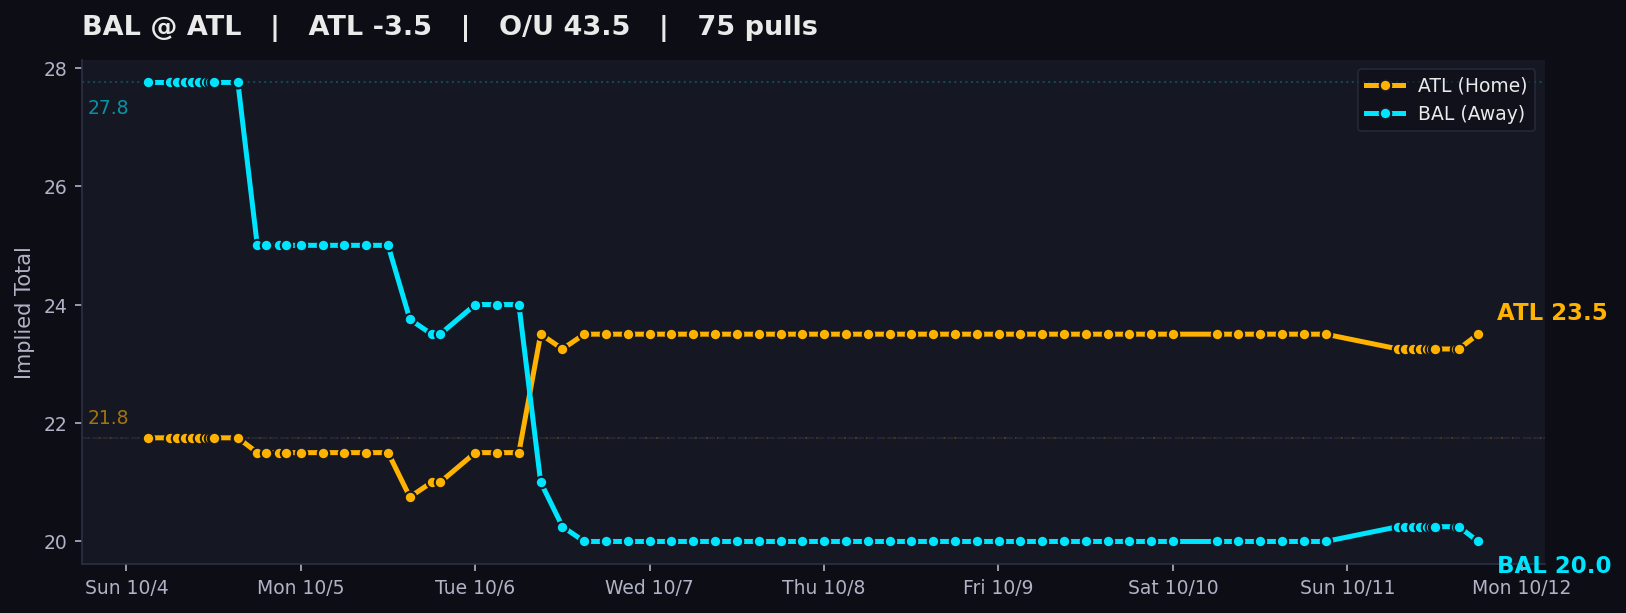
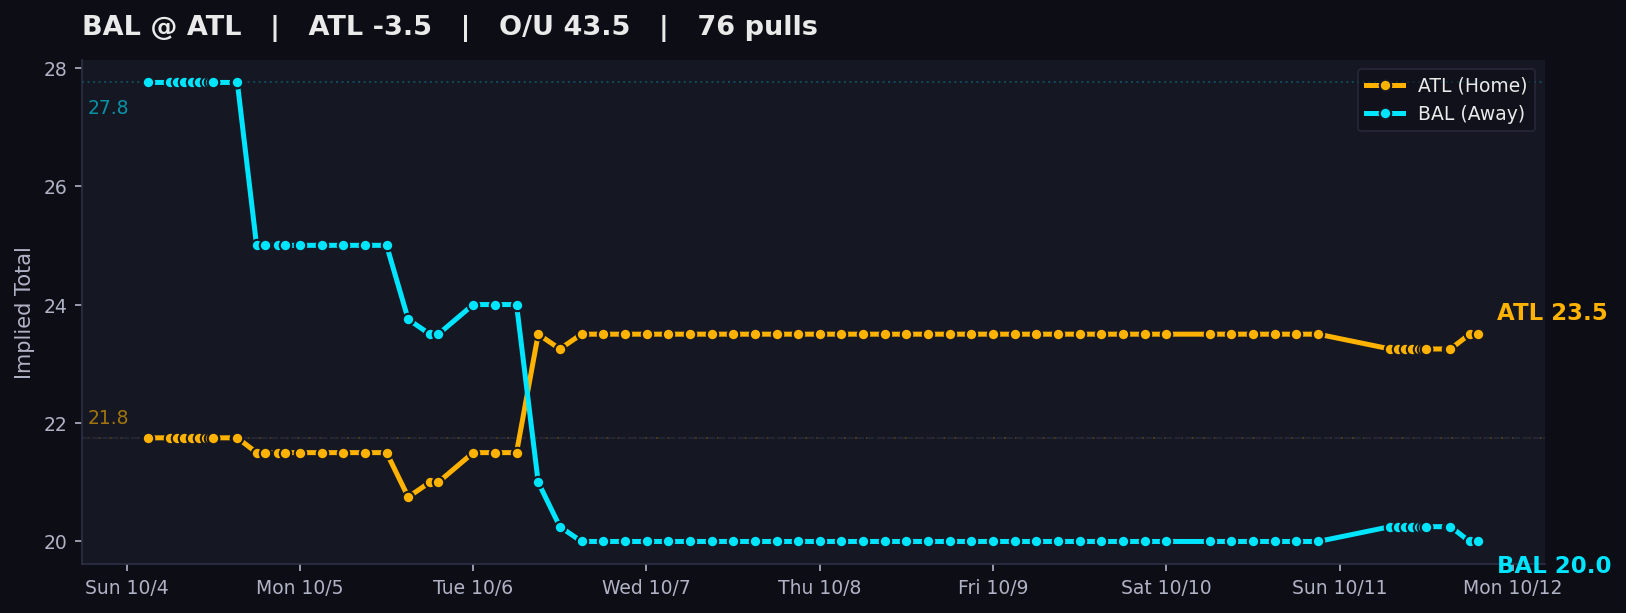
auto: local tracker sync

diff --git a/charts/index.html b/charts/index.html
@@ -311,7 +311,7 @@
     </div>
     <p class='sub'>
       DraftKings main lines &middot; Pinnacle cross-check &middot; Updated by the local Mac tracker<br>
-      Page rendered Sun Oct 11, 2026 6:00 PM CDT &middot; 1075 valid chart dots &middot; 1174 total pull attempts
+      Page rendered Sun Oct 11, 2026 7:10 PM CDT &middot; 1077 valid chart dots &middot; 1176 total pull attempts
       <span class='legend-box'>
         <span class='dot-teal'>● Away implied total</span>
         <span class='dot-amber'>● Home implied total</span>
@@ -324,9 +324,9 @@
     </details>
   </header>
 
-  <div id='feed-banner' class='alert-banner healthy' data-banner-kind='healthy' data-feed-ts='2026-10-11T23:00:04.798140+00:00' data-feed-ts-label='Sun Oct 11, 6:00 PM CDT'>
+  <div id='feed-banner' class='alert-banner healthy' data-banner-kind='healthy' data-feed-ts='2026-10-12T00:10:00.872640+00:00' data-feed-ts-label='Sun Oct 11, 7:10 PM CDT'>
             <span class='status-dot'></span>
-            <b>Feed Healthy:</b> All 2 open markets updated. 13 games have started and is showing its final verified pregame line. Board age based on oldest open market: <span id='feed-time'>Sun Oct 11, 6:00 PM CDT</span> (<span id='feed-age-dynamic'>just now</span>).
+            <b>Feed Healthy:</b> All 2 open markets updated. 13 games have started and is showing its final verified pregame line. Board age based on oldest open market: <span id='feed-time'>Sun Oct 11, 7:10 PM CDT</span> (<span id='feed-age-dynamic'>just now</span>).
         </div>
 
   <nav class='filter-bar' aria-label='Filter games by slate'>
@@ -396,7 +396,7 @@
                 <div><span>Last valid pull</span><strong>Thu 6:00 PM CT</strong></div>
                 <div><span>Chart dots</span><strong>69</strong></div>
             </div>
-                    <img class='expanded-chart' src='TB_DAL.png?v=1791759609' alt='TB at DAL line movement chart'>
+                    <img class='expanded-chart' src='TB_DAL.png?v=1791763814' alt='TB at DAL line movement chart'>
                     <p class='movement-note'>Total 47.5 → 49.5</p>
                 </div>
             </td>
@@ -437,7 +437,7 @@
                 <div><span>Last valid pull</span><strong>8:00 AM CT</strong></div>
                 <div><span>Chart dots</span><strong>71</strong></div>
             </div>
-                    <img class='expanded-chart' src='PHI_JAX.png?v=1791759609' alt='PHI at JAX line movement chart'>
+                    <img class='expanded-chart' src='PHI_JAX.png?v=1791763814' alt='PHI at JAX line movement chart'>
                     <p class='movement-note'>Spread JAX -3.0 → -7.5; Total 44.5 → 41.5</p>
                 </div>
             </td>
@@ -478,7 +478,7 @@
                 <div><span>Last valid pull</span><strong>12:00 PM CT</strong></div>
                 <div><span>Chart dots</span><strong>75</strong></div>
             </div>
-                    <img class='expanded-chart' src='CHI_GB.png?v=1791759609' alt='CHI at GB line movement chart'>
+                    <img class='expanded-chart' src='CHI_GB.png?v=1791763814' alt='CHI at GB line movement chart'>
                     <p class='movement-note'>Spread CHI +2.5 → -1.5; Total 45.5 → 46.5</p>
                 </div>
             </td>
@@ -513,7 +513,7 @@
                 <div><span>Last valid pull</span><strong>12:00 PM CT</strong></div>
                 <div><span>Chart dots</span><strong>64</strong></div>
             </div>
-                    <img class='expanded-chart' src='IND_PIT.png?v=1791759609' alt='IND at PIT line movement chart'>
+                    <img class='expanded-chart' src='IND_PIT.png?v=1791763814' alt='IND at PIT line movement chart'>
                     <p class='movement-note'>Spread PIT -2.5 → -3.0; Total 44.5 → 41.5</p>
                 </div>
             </td>
@@ -548,7 +548,7 @@
                 <div><span>Last valid pull</span><strong>12:00 PM CT</strong></div>
                 <div><span>Chart dots</span><strong>73</strong></div>
             </div>
-                    <img class='expanded-chart' src='MIN_NO.png?v=1791759609' alt='MIN at NO line movement chart'>
+                    <img class='expanded-chart' src='MIN_NO.png?v=1791763814' alt='MIN at NO line movement chart'>
                     <p class='movement-note'>Total 44.5 → 41.5</p>
                 </div>
             </td>
@@ -583,7 +583,7 @@
                 <div><span>Last valid pull</span><strong>12:00 PM CT</strong></div>
                 <div><span>Chart dots</span><strong>68</strong></div>
             </div>
-                    <img class='expanded-chart' src='NYG_WAS.png?v=1791759609' alt='NYG at WAS line movement chart'>
+                    <img class='expanded-chart' src='NYG_WAS.png?v=1791763814' alt='NYG at WAS line movement chart'>
                     <p class='movement-note'>Spread WAS -2.5 → -3.5; Total 43.5 → 41.5</p>
                 </div>
             </td>
@@ -618,7 +618,7 @@
                 <div><span>Last valid pull</span><strong>12:00 PM CT</strong></div>
                 <div><span>Chart dots</span><strong>75</strong></div>
             </div>
-                    <img class='expanded-chart' src='CIN_MIA.png?v=1791759609' alt='CIN at MIA line movement chart'>
+                    <img class='expanded-chart' src='CIN_MIA.png?v=1791763814' alt='CIN at MIA line movement chart'>
                     <p class='movement-note'>Spread CIN -8.5 → -7.0; Total 46.5 → 44.5</p>
                 </div>
             </td>
@@ -653,7 +653,7 @@
                 <div><span>Last valid pull</span><strong>12:00 PM CT</strong></div>
                 <div><span>Chart dots</span><strong>75</strong></div>
             </div>
-                    <img class='expanded-chart' src='HOU_TEN.png?v=1791759609' alt='HOU at TEN line movement chart'>
+                    <img class='expanded-chart' src='HOU_TEN.png?v=1791763814' alt='HOU at TEN line movement chart'>
                     <p class='movement-note'>Total 39.5 → 37.5</p>
                 </div>
             </td>
@@ -688,7 +688,7 @@
                 <div><span>Last valid pull</span><strong>12:00 PM CT</strong></div>
                 <div><span>Chart dots</span><strong>64</strong></div>
             </div>
-                    <img class='expanded-chart' src='CLE_NYJ.png?v=1791759609' alt='CLE at NYJ line movement chart'>
+                    <img class='expanded-chart' src='CLE_NYJ.png?v=1791763814' alt='CLE at NYJ line movement chart'>
                     <p class='movement-note'>Spread NYJ -1.5 → -2.5; Total 39.5 → 38.5</p>
                 </div>
             </td>
@@ -723,7 +723,7 @@
                 <div><span>Last valid pull</span><strong>12:00 PM CT</strong></div>
                 <div><span>Chart dots</span><strong>75</strong></div>
             </div>
-                    <img class='expanded-chart' src='LVR_NE.png?v=1791759609' alt='LVR at NE line movement chart'>
+                    <img class='expanded-chart' src='LVR_NE.png?v=1791763814' alt='LVR at NE line movement chart'>
                     <p class='movement-note'>Total 44.5 → 45.5</p>
                 </div>
             </td>
@@ -764,7 +764,7 @@
                 <div><span>Last valid pull</span><strong>3:20 PM CT</strong></div>
                 <div><span>Chart dots</span><strong>77</strong></div>
             </div>
-                    <img class='expanded-chart' src='DET_ARI.png?v=1791759609' alt='DET at ARI line movement chart'>
+                    <img class='expanded-chart' src='DET_ARI.png?v=1791763814' alt='DET at ARI line movement chart'>
                     <p class='movement-note'>Total 52.5 → 55.5</p>
                 </div>
             </td>
@@ -799,7 +799,7 @@
                 <div><span>Last valid pull</span><strong>3:20 PM CT</strong></div>
                 <div><span>Chart dots</span><strong>79</strong></div>
             </div>
-                    <img class='expanded-chart' src='SF_SEA.png?v=1791759609' alt='SF at SEA line movement chart'>
+                    <img class='expanded-chart' src='SF_SEA.png?v=1791763814' alt='SF at SEA line movement chart'>
                     <p class='movement-note'>Total 47.5 → 45.5</p>
                 </div>
             </td>
@@ -834,7 +834,7 @@
                 <div><span>Last valid pull</span><strong>3:00 PM CT</strong></div>
                 <div><span>Chart dots</span><strong>73</strong></div>
             </div>
-                    <img class='expanded-chart' src='DEN_LAC.png?v=1791759609' alt='DEN at LAC line movement chart'>
+                    <img class='expanded-chart' src='DEN_LAC.png?v=1791763814' alt='DEN at LAC line movement chart'>
                     <p class='movement-note'>Spread DEN -2.5 → -3.5; Total 43.5 → 42.5</p>
                 </div>
             </td>
@@ -855,8 +855,8 @@
             <td class='it-away'>BAL 20.0</td>
             <td class='it-home'>ATL 23.5</td>
             <td class='reason' title='Spread ATL +6.0 → -3.5; Total 49.5 → 43.5'>Spread ATL +6.0 → -3.5; Total 49.5 → 43.5</td>
-            <td style='text-align:center;'><span class='pill-fresh'>6:00 PM CT</span></td>
-            <td class='snaps'>75</td>
+            <td style='text-align:center;'><span class='pill-fresh'>7:10 PM CT</span></td>
+            <td class='snaps'>76</td>
         </tr>
         <tr id='desktop-panel-BAL_ATL' class='chart-detail-row' data-slate='SNF' data-game-panel='BAL_ATL' hidden>
             <td colspan='12'>
@@ -872,10 +872,10 @@
                 <div><span>Current total</span><strong>43.5</strong></div>
                 <div><span>Away implied</span><strong class='it-away'>BAL 20.0</strong></div>
                 <div><span>Home implied</span><strong class='it-home'>ATL 23.5</strong></div>
-                <div><span>Last valid pull</span><strong>6:00 PM CT</strong></div>
-                <div><span>Chart dots</span><strong>75</strong></div>
+                <div><span>Last valid pull</span><strong>7:10 PM CT</strong></div>
+                <div><span>Chart dots</span><strong>76</strong></div>
             </div>
-                    <img class='expanded-chart' src='BAL_ATL.png?v=1791759609' alt='BAL at ATL line movement chart'>
+                    <img class='expanded-chart' src='BAL_ATL.png?v=1791763814' alt='BAL at ATL line movement chart'>
                     <p class='movement-note'>Spread ATL +6.0 → -3.5; Total 49.5 → 43.5</p>
                 </div>
             </td>
@@ -896,8 +896,8 @@
             <td class='it-away'>BUF 25.5</td>
             <td class='it-home'>LAR 29.0</td>
             <td class='reason' title='Spread LAR -2.5 → -3.5; Total 53.5 → 54.5'>Spread LAR -2.5 → -3.5; Total 53.5 → 54.5</td>
-            <td style='text-align:center;'><span class='pill-fresh'>6:00 PM CT</span></td>
-            <td class='snaps'>62</td>
+            <td style='text-align:center;'><span class='pill-fresh'>7:10 PM CT</span></td>
+            <td class='snaps'>63</td>
         </tr>
         <tr id='desktop-panel-BUF_LAR' class='chart-detail-row' data-slate='MNF' data-game-panel='BUF_LAR' hidden>
             <td colspan='12'>
@@ -913,10 +913,10 @@
                 <div><span>Current total</span><strong>54.5</strong></div>
                 <div><span>Away implied</span><strong class='it-away'>BUF 25.5</strong></div>
                 <div><span>Home implied</span><strong class='it-home'>LAR 29.0</strong></div>
-                <div><span>Last valid pull</span><strong>6:00 PM CT</strong></div>
-                <div><span>Chart dots</span><strong>62</strong></div>
+                <div><span>Last valid pull</span><strong>7:10 PM CT</strong></div>
+                <div><span>Chart dots</span><strong>63</strong></div>
             </div>
-                    <img class='expanded-chart' src='BUF_LAR.png?v=1791759609' alt='BUF at LAR line movement chart'>
+                    <img class='expanded-chart' src='BUF_LAR.png?v=1791763814' alt='BUF at LAR line movement chart'>
                     <p class='movement-note'>Spread LAR -2.5 → -3.5; Total 53.5 → 54.5</p>
                 </div>
             </td>
@@ -951,7 +951,7 @@
                 <div><span>Last valid pull</span><strong>Thu 6:00 PM CT</strong></div>
                 <div><span>Chart dots</span><strong>69</strong></div>
             </div>
-                <img class='expanded-chart' src='TB_DAL.png?v=1791759609' alt='TB at DAL line movement chart'>
+                <img class='expanded-chart' src='TB_DAL.png?v=1791763814' alt='TB at DAL line movement chart'>
                 <p class='pull-note'><span class='pull-dot'></span> Every dot is a valid completed pull · 69 chart dots</p>
             </div>
         </article><article class='mobile-game-card closed-game' data-slate='OTHER_PRIMETIME' data-game='PHI_JAX'>
@@ -978,7 +978,7 @@
                 <div><span>Last valid pull</span><strong>8:00 AM CT</strong></div>
                 <div><span>Chart dots</span><strong>71</strong></div>
             </div>
-                <img class='expanded-chart' src='PHI_JAX.png?v=1791759609' alt='PHI at JAX line movement chart'>
+                <img class='expanded-chart' src='PHI_JAX.png?v=1791763814' alt='PHI at JAX line movement chart'>
                 <p class='pull-note'><span class='pull-dot'></span> Every dot is a valid completed pull · 71 chart dots</p>
             </div>
         </article><article class='mobile-game-card closed-game' data-slate='SUN_EARLY' data-game='CHI_GB'>
@@ -1005,7 +1005,7 @@
                 <div><span>Last valid pull</span><strong>12:00 PM CT</strong></div>
                 <div><span>Chart dots</span><strong>75</strong></div>
             </div>
-                <img class='expanded-chart' src='CHI_GB.png?v=1791759609' alt='CHI at GB line movement chart'>
+                <img class='expanded-chart' src='CHI_GB.png?v=1791763814' alt='CHI at GB line movement chart'>
                 <p class='pull-note'><span class='pull-dot'></span> Every dot is a valid completed pull · 75 chart dots</p>
             </div>
         </article><article class='mobile-game-card closed-game' data-slate='SUN_EARLY' data-game='IND_PIT'>
@@ -1032,7 +1032,7 @@
                 <div><span>Last valid pull</span><strong>12:00 PM CT</strong></div>
                 <div><span>Chart dots</span><strong>64</strong></div>
             </div>
-                <img class='expanded-chart' src='IND_PIT.png?v=1791759609' alt='IND at PIT line movement chart'>
+                <img class='expanded-chart' src='IND_PIT.png?v=1791763814' alt='IND at PIT line movement chart'>
                 <p class='pull-note'><span class='pull-dot'></span> Every dot is a valid completed pull · 64 chart dots</p>
             </div>
         </article><article class='mobile-game-card closed-game' data-slate='SUN_EARLY' data-game='MIN_NO'>
@@ -1059,7 +1059,7 @@
                 <div><span>Last valid pull</span><strong>12:00 PM CT</strong></div>
                 <div><span>Chart dots</span><strong>73</strong></div>
             </div>
-                <img class='expanded-chart' src='MIN_NO.png?v=1791759609' alt='MIN at NO line movement chart'>
+                <img class='expanded-chart' src='MIN_NO.png?v=1791763814' alt='MIN at NO line movement chart'>
                 <p class='pull-note'><span class='pull-dot'></span> Every dot is a valid completed pull · 73 chart dots</p>
             </div>
         </article><article class='mobile-game-card closed-game' data-slate='SUN_EARLY' data-game='NYG_WAS'>
@@ -1086,7 +1086,7 @@
                 <div><span>Last valid pull</span><strong>12:00 PM CT</strong></div>
                 <div><span>Chart dots</span><strong>68</strong></div>
             </div>
-                <img class='expanded-chart' src='NYG_WAS.png?v=1791759609' alt='NYG at WAS line movement chart'>
+                <img class='expanded-chart' src='NYG_WAS.png?v=1791763814' alt='NYG at WAS line movement chart'>
                 <p class='pull-note'><span class='pull-dot'></span> Every dot is a valid completed pull · 68 chart dots</p>
             </div>
         </article><article class='mobile-game-card closed-game' data-slate='SUN_EARLY' data-game='CIN_MIA'>
@@ -1113,7 +1113,7 @@
                 <div><span>Last valid pull</span><strong>12:00 PM CT</strong></div>
                 <div><span>Chart dots</span><strong>75</strong></div>
             </div>
-                <img class='expanded-chart' src='CIN_MIA.png?v=1791759609' alt='CIN at MIA line movement chart'>
+                <img class='expanded-chart' src='CIN_MIA.png?v=1791763814' alt='CIN at MIA line movement chart'>
                 <p class='pull-note'><span class='pull-dot'></span> Every dot is a valid completed pull · 75 chart dots</p>
             </div>
         </article><article class='mobile-game-card closed-game' data-slate='SUN_EARLY' data-game='HOU_TEN'>
@@ -1140,7 +1140,7 @@
                 <div><span>Last valid pull</span><strong>12:00 PM CT</strong></div>
                 <div><span>Chart dots</span><strong>75</strong></div>
             </div>
-                <img class='expanded-chart' src='HOU_TEN.png?v=1791759609' alt='HOU at TEN line movement chart'>
+                <img class='expanded-chart' src='HOU_TEN.png?v=1791763814' alt='HOU at TEN line movement chart'>
                 <p class='pull-note'><span class='pull-dot'></span> Every dot is a valid completed pull · 75 chart dots</p>
             </div>
         </article><article class='mobile-game-card closed-game' data-slate='SUN_EARLY' data-game='CLE_NYJ'>
@@ -1167,7 +1167,7 @@
                 <div><span>Last valid pull</span><strong>12:00 PM CT</strong></div>
                 <div><span>Chart dots</span><strong>64</strong></div>
             </div>
-                <img class='expanded-chart' src='CLE_NYJ.png?v=1791759609' alt='CLE at NYJ line movement chart'>
+                <img class='expanded-chart' src='CLE_NYJ.png?v=1791763814' alt='CLE at NYJ line movement chart'>
                 <p class='pull-note'><span class='pull-dot'></span> Every dot is a valid completed pull · 64 chart dots</p>
             </div>
         </article><article class='mobile-game-card closed-game' data-slate='SUN_EARLY' data-game='LVR_NE'>
@@ -1194,7 +1194,7 @@
                 <div><span>Last valid pull</span><strong>12:00 PM CT</strong></div>
                 <div><span>Chart dots</span><strong>75</strong></div>
             </div>
-                <img class='expanded-chart' src='LVR_NE.png?v=1791759609' alt='LVR at NE line movement chart'>
+                <img class='expanded-chart' src='LVR_NE.png?v=1791763814' alt='LVR at NE line movement chart'>
                 <p class='pull-note'><span class='pull-dot'></span> Every dot is a valid completed pull · 75 chart dots</p>
             </div>
         </article><article class='mobile-game-card closed-game' data-slate='SUN_LATE' data-game='DET_ARI'>
@@ -1221,7 +1221,7 @@
                 <div><span>Last valid pull</span><strong>3:20 PM CT</strong></div>
                 <div><span>Chart dots</span><strong>77</strong></div>
             </div>
-                <img class='expanded-chart' src='DET_ARI.png?v=1791759609' alt='DET at ARI line movement chart'>
+                <img class='expanded-chart' src='DET_ARI.png?v=1791763814' alt='DET at ARI line movement chart'>
                 <p class='pull-note'><span class='pull-dot'></span> Every dot is a valid completed pull · 77 chart dots</p>
             </div>
         </article><article class='mobile-game-card closed-game' data-slate='SUN_LATE' data-game='SF_SEA'>
@@ -1248,7 +1248,7 @@
                 <div><span>Last valid pull</span><strong>3:20 PM CT</strong></div>
                 <div><span>Chart dots</span><strong>79</strong></div>
             </div>
-                <img class='expanded-chart' src='SF_SEA.png?v=1791759609' alt='SF at SEA line movement chart'>
+                <img class='expanded-chart' src='SF_SEA.png?v=1791763814' alt='SF at SEA line movement chart'>
                 <p class='pull-note'><span class='pull-dot'></span> Every dot is a valid completed pull · 79 chart dots</p>
             </div>
         </article><article class='mobile-game-card closed-game' data-slate='SUN_LATE' data-game='DEN_LAC'>
@@ -1275,7 +1275,7 @@
                 <div><span>Last valid pull</span><strong>3:00 PM CT</strong></div>
                 <div><span>Chart dots</span><strong>73</strong></div>
             </div>
-                <img class='expanded-chart' src='DEN_LAC.png?v=1791759609' alt='DEN at LAC line movement chart'>
+                <img class='expanded-chart' src='DEN_LAC.png?v=1791763814' alt='DEN at LAC line movement chart'>
                 <p class='pull-note'><span class='pull-dot'></span> Every dot is a valid completed pull · 73 chart dots</p>
             </div>
         </article><article class='mobile-game-card ' data-slate='SNF' data-game='BAL_ATL'>
@@ -1299,11 +1299,11 @@
                 <div><span>Current total</span><strong>43.5</strong></div>
                 <div><span>Away implied</span><strong class='it-away'>BAL 20.0</strong></div>
                 <div><span>Home implied</span><strong class='it-home'>ATL 23.5</strong></div>
-                <div><span>Last valid pull</span><strong>6:00 PM CT</strong></div>
-                <div><span>Chart dots</span><strong>75</strong></div>
+                <div><span>Last valid pull</span><strong>7:10 PM CT</strong></div>
+                <div><span>Chart dots</span><strong>76</strong></div>
             </div>
-                <img class='expanded-chart' src='BAL_ATL.png?v=1791759609' alt='BAL at ATL line movement chart'>
-                <p class='pull-note'><span class='pull-dot'></span> Every dot is a valid completed pull · 75 chart dots</p>
+                <img class='expanded-chart' src='BAL_ATL.png?v=1791763814' alt='BAL at ATL line movement chart'>
+                <p class='pull-note'><span class='pull-dot'></span> Every dot is a valid completed pull · 76 chart dots</p>
             </div>
         </article><article class='mobile-game-card ' data-slate='MNF' data-game='BUF_LAR'>
             <button class='mobile-game-summary' type='button' data-toggle-game='BUF_LAR' aria-expanded='false' aria-controls='mobile-panel-BUF_LAR'>
@@ -1326,11 +1326,11 @@
                 <div><span>Current total</span><strong>54.5</strong></div>
                 <div><span>Away implied</span><strong class='it-away'>BUF 25.5</strong></div>
                 <div><span>Home implied</span><strong class='it-home'>LAR 29.0</strong></div>
-                <div><span>Last valid pull</span><strong>6:00 PM CT</strong></div>
-                <div><span>Chart dots</span><strong>62</strong></div>
+                <div><span>Last valid pull</span><strong>7:10 PM CT</strong></div>
+                <div><span>Chart dots</span><strong>63</strong></div>
             </div>
-                <img class='expanded-chart' src='BUF_LAR.png?v=1791759609' alt='BUF at LAR line movement chart'>
-                <p class='pull-note'><span class='pull-dot'></span> Every dot is a valid completed pull · 62 chart dots</p>
+                <img class='expanded-chart' src='BUF_LAR.png?v=1791763814' alt='BUF at LAR line movement chart'>
+                <p class='pull-note'><span class='pull-dot'></span> Every dot is a valid completed pull · 63 chart dots</p>
             </div>
         </article>
   </section>
